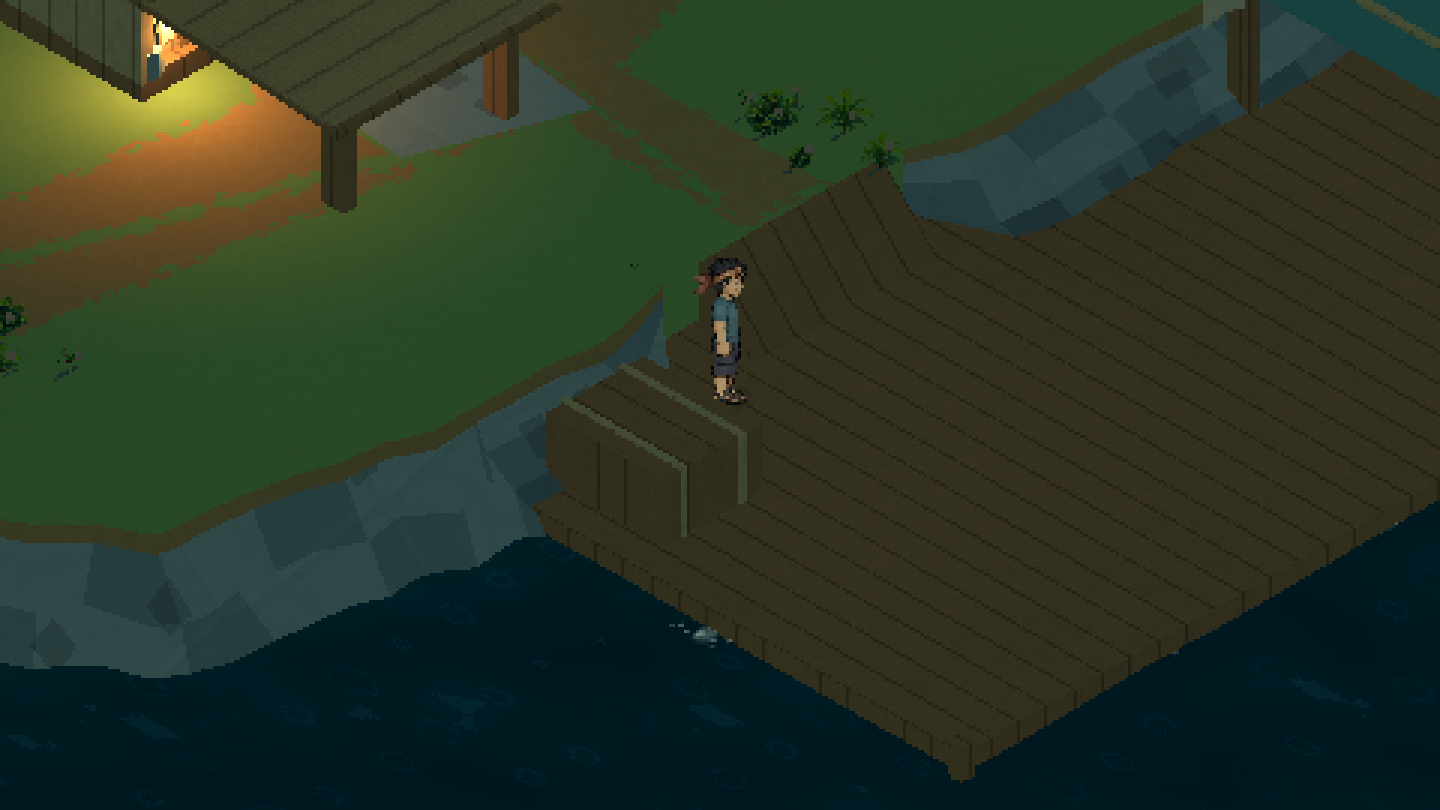
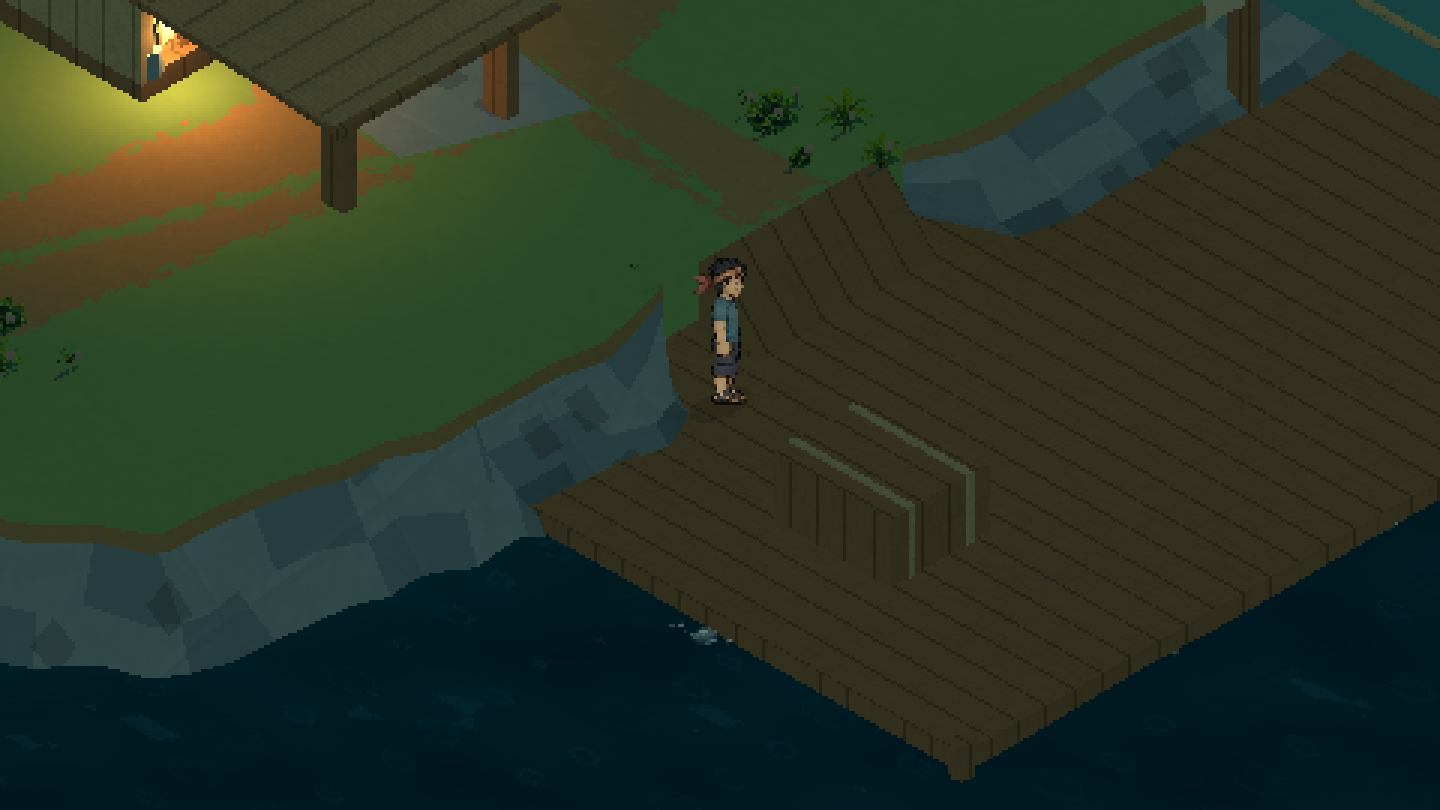
fix(world): preserve dock save recovery around supply crates

diff --git a/packages/shared/src/land.ts b/packages/shared/src/land.ts
@@ -630,7 +630,7 @@ const hubObstacles: LandObstacle[] = [
   obstacle("palm_kedai", "tree", 800, 430, 34, 34, 185, "palm", 2),
   obstacle("palm_garden", "tree", 1640, 600, 34, 34, 180, "palm", 2),
   obstacle("market_crates", "crate", 470, 915, 65, 48, 38, "woven", 1),
-  obstacle("dock_crates", "crate", 875, 1190, 80, 55, 48, "wood", 0),
+  obstacle("dock_crates", "crate", 940, 1260, 80, 55, 48, "wood", 0),
   obstacle(
     "changing_post_north",
     "fence",
